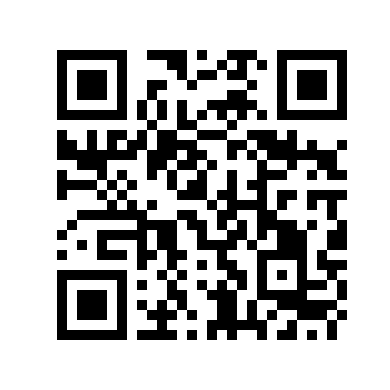
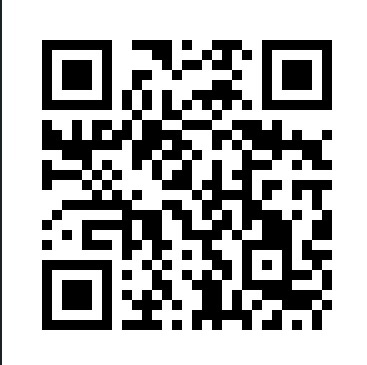
fix: restrict blood matching to exact mentioned blood group and update QR scanner image to user provided scanner

Changed region(s): [[0.0899, 0.0904, 0.9292, 0.9041], [0.0, 0.0, 0.03, 1.0]]

diff --git a/blood.html b/blood.html
@@ -503,10 +503,10 @@
                 </button>
             </div>
 
-            <!-- Compatible Donors Header -->
+            <!-- Matched Donors Header -->
             <div class="flex items-center justify-between mb-2">
                 <h4 class="text-xs font-black uppercase tracking-wider text-slate-600 dark:text-slate-300 flex items-center gap-1.5">
-                    <i data-lucide="users" class="w-3.5 h-3.5 text-red-500"></i> Compatible Donors in Registry (<span id="matchedDonorsCount">0</span>)
+                    <i data-lucide="users" class="w-3.5 h-3.5 text-red-500"></i> Matched Donors for Required Blood Group (<span id="matchedDonorsCount">0</span>)
                 </h4>
                 <span id="matchedCityNote" class="text-[11px] font-semibold text-emerald-600 dark:text-emerald-400"></span>
             </div>
@@ -1087,16 +1087,16 @@
         };
         window.closeBloodTicket = window.deleteMyBloodTicket;
 
-        // BLOOD COMPATIBILITY MATRIX
+        // STRICT EXACT BLOOD GROUP MATCHING (ONLY SHOWS THE EXACT BLOOD GROUP MENTIONED)
         const BLOOD_COMPATIBILITY = {
             'O-': ['O-'],
-            'O+': ['O-', 'O+'],
-            'A-': ['O-', 'A-'],
-            'A+': ['O-', 'O+', 'A-', 'A+'],
-            'B-': ['O-', 'B-'],
-            'B+': ['O-', 'O+', 'B-', 'B+'],
-            'AB-': ['O-', 'A-', 'B-', 'AB-'],
-            'AB+': ['O-', 'O+', 'A-', 'A+', 'B-', 'B+', 'AB-', 'AB+']
+            'O+': ['O+'],
+            'A-': ['A-'],
+            'A+': ['A+'],
+            'B-': ['B-'],
+            'B+': ['B+'],
+            'AB-': ['AB-'],
+            'AB+': ['AB+']
         };
 
         window.activeUrgentBloodTickets = {};
@@ -1145,8 +1145,8 @@
 
             filteredKeys.forEach(key => {
                 const r = window.activeUrgentBloodTickets[key];
-                const compatibleGroups = BLOOD_COMPATIBILITY[r.bloodGroup] || [r.bloodGroup];
-                const matchingDonors = allDonors.filter(d => compatibleGroups.includes((d.bloodGroup || '').toUpperCase()));
+                const reqBg = (r.bloodGroup || '').toUpperCase().trim();
+                const matchingDonors = allDonors.filter(d => (d.bloodGroup || '').toUpperCase().trim() === reqBg);
                 const isMyPost = (currentUid && r.userId === currentUid) || 
                                  (currentEmail && r.userEmail && r.userEmail.toLowerCase() === currentEmail) || 
                                  myPostedKeys.includes(key);
@@ -1230,8 +1230,8 @@
             }
             window.currentActiveMatchTicket = ticket;
 
-            const compatibleGroups = BLOOD_COMPATIBILITY[ticket.bloodGroup] || [ticket.bloodGroup];
-            const matchingDonors = allDonors.filter(d => compatibleGroups.includes((d.bloodGroup || '').toUpperCase()));
+            const reqBg = (ticket.bloodGroup || '').toUpperCase().trim();
+            const matchingDonors = allDonors.filter(d => (d.bloodGroup || '').toUpperCase().trim() === reqBg);
 
             matchingDonors.sort((a, b) => {
                 const aCityMatch = (a.city || '').toLowerCase().trim() === (ticket.city || '').toLowerCase().trim();
@@ -1265,7 +1265,7 @@
                         <div><strong>📞 Attendant Phone:</strong> <button onclick="openPrivacyTicketByKey('${ticketKey}')" class="text-red-600 font-mono font-bold hover:underline inline-flex items-center gap-1">${window.maskPhone(ticket.phone)} <span class="text-[10px] bg-red-100 dark:bg-red-950 px-1.5 py-0.2 rounded font-sans font-normal border border-red-200 dark:border-red-900">🛡 Guarded • Contact</span></button></div>
                     </div>
                     <div class="mt-2 pt-2 border-t border-red-200/60 dark:border-red-900/40 text-[11px] text-slate-600 dark:text-slate-400">
-                        🩸 Compatible Donor Groups for ${ticket.bloodGroup}: <strong class="text-red-600 dark:text-red-400">${compatibleGroups.join(', ')}</strong>
+                        🩸 Required Blood Group: <strong class="text-red-600 dark:text-red-400">${ticket.bloodGroup}</strong>
                     </div>
                 `;
             }
@@ -1284,7 +1284,7 @@
                 if (matchingDonors.length === 0) {
                     listEl.innerHTML = `
                         <div class="p-6 text-center text-slate-500">
-                            <p class="text-xs font-bold">No registered donors currently match ${compatibleGroups.join(', ')}.</p>
+                            <p class="text-xs font-bold">No registered donors currently match ${ticket.bloodGroup}.</p>
                             <p class="text-[11px] mt-1 text-slate-400">Click 1-Click WhatsApp Broadcast above to dispatch this requirement to community groups.</p>
                         </div>
                     `;
@@ -1375,13 +1375,12 @@
         window.broadcastTicketWhatsApp = function() {
             if (!window.currentActiveMatchTicket) return;
             const t = window.currentActiveMatchTicket;
-            const comp = (BLOOD_COMPATIBILITY[t.bloodGroup] || [t.bloodGroup]).join(', ');
             const msg = `🚨 *URGENT BLOOD ALERT - LIFESAVER-CARE* 🚨\n\n` +
                 `Patient urgently requires *${t.units || 1} Unit(s)* of *${t.bloodGroup} Blood*.\n\n` +
                 `🏥 *Hospital:* ${t.hospital}\n` +
                 `📍 *City:* ${t.city}\n` +
                 `📞 *Emergency Contact:* ${t.phone}\n\n` +
-                `🩸 *Acceptable Blood Groups:* ${comp}\n\n` +
+                `🩸 *Required Blood Group:* *${t.bloodGroup}*\n\n` +
                 `⚡ *If you or someone in your network can donate, please call immediately.*\n\n` +
                 `LifeSaver-Care Emergency Network:\n${window.location.origin}/blood.html`;
             window.open(`https://api.whatsapp.com/send?text=${encodeURIComponent(msg)}`, '_blank');
